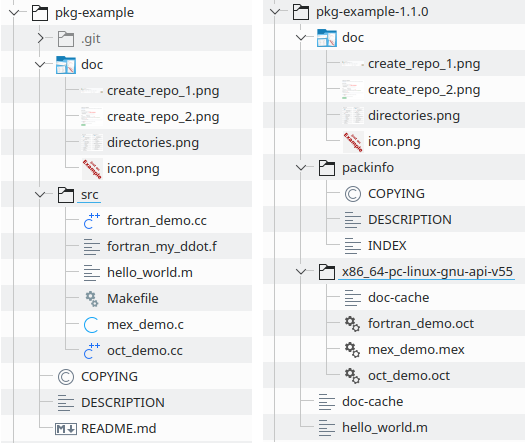
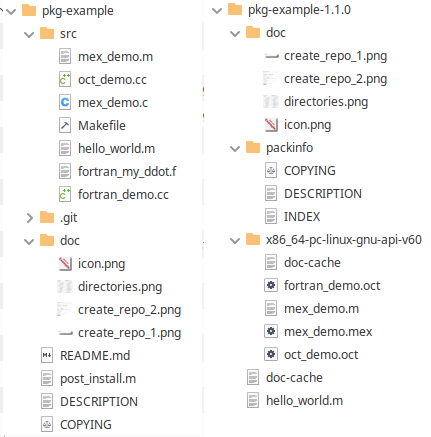
Add post_install.m  and info for mex docs
* README.md: update for post_install.m information

* doc/directories.png: update image for new files

* post_install.m: new file

* src/mex_demo.m: new file

diff --git a/post_install.m b/post_install.m
@@ -1,0 +1,45 @@
+## Copyright (C) 2026 John Donoghue
+##  
+## This program is free software; you can redistribute it and/or
+## modify it under the terms of the GNU General Public License as
+## published by the Free Software Foundation; either version 3 of the
+## License, or (at your option) any later version.
+##      
+## This program is distributed in the hope that it will be useful, but
+## WITHOUT ANY WARRANTY; without even the implied warranty of
+## MERCHANTABILITY or FITNESS FOR A PARTICULAR PURPOSE. See the GNU
+## General Public License for more details.
+##      
+## You should have received a copy of the GNU General Public License
+## along with this program; if not, see
+## <http:##www.gnu.org/licenses/>.
+          
+## post_install
+## .mex files expect a .m file of same name in same folder as the mex file
+## containing the help of the mex file, but pkg copies .m files from the src
+## folder to the base install folder rather than to the arch folder.
+##
+## This generic post_install s used to copy any .mex file matching .m files
+## from the base install to the arch files folder
+
+function post_install (desc)
+  try
+    if isfield(desc, "archprefix") && ! isempty(desc.archprefix)
+      arch = [__octave_config_info__("canonical_host_type"), "-", ...
+                      __octave_config_info__("api_version")];
+
+      # get any mex files
+      mex = dir (fullfile (desc.archprefix, arch, "*.mex"));
+
+      for idx = 1:length (mex)
+        # for any .m file that has name as a mex file, move it to the arch folder
+        [~, funcname, ~] = fileparts (mex(idx).name);
+        if exist (fullfile (desc.dir, [funcname ".m"]))
+          movefile (fullfile (desc.dir, [funcname ".m"]), fullfile (desc.archprefix, arch, [funcname ".m"]));
+        endif
+      endfor
+    endif
+  catch
+    warning ("error processing post_install %s", lasterr)
+  end_try_catch
+endfunction

diff --git a/src/mex_demo.m b/src/mex_demo.m
@@ -1,0 +1,13 @@
+% Example Help File for mex_demo
+%
+% Prints a greating followed by a count of the number of inputs and outputs.
+%
+% Return a 1x1 matrix output by default, and empty matrix outputs for any
+% additional outputs.
+%
+% Example:
+% > d = mex_demo ("easy as", 1, 2, 3)
+%
+%   Hello, world!
+%   I have 4 inputs and 1 output
+%   d =  1.2346

diff --git a/README.md b/README.md
@@ -9,6 +9,7 @@ for [GNU Octave](https://www.octave.org).  Contained examples are:
   called by the oct-interface
 - `oct_demo.cc`: C++ code called by the oct-interface
 - `mex_demo.cc`: C code called by the mex-interface
+- `mex_demo.m`: Octave/Matlab help text for the mex-interface
 
 This package serves as template.  Installing it is of little use.
 In the following, we describe the Octave package development,
@@ -93,6 +94,11 @@ installation location.
 - `NEWS`: If this file is provided,
   the command `news pkg-example` prints it on the screen.
 
+- `post_install.m`: If this file is provided, it is run
+   as part of the install proceder for any additional install
+   steps that may be needed. The example one provided here copies
+   the mex_demo.m help file to the correct directory.
+
 - [`doc`](doc): Optional folder.
   All content is copied to the package installation directory.
 
@@ -106,6 +112,9 @@ installation location.
 
     > **Note:** Only `.m`, `.mex`, and `.oct` files are finally copied to the
     > package installation directory.
+
+  - If a configure script exists in the package src directory, it will be
+    run before calling the make on the makefile.
 
 
 ## 3. Install your package
@@ -141,9 +150,8 @@ g++ -c  -fPIC -I/usr/include/octave-6.2.0/octave/.. -I/usr/include/octave-6.2.0/
 g++ -I/usr/include/octave-6.2.0/octave/.. -I/usr/include/octave-6.2.0/octave  -pthread -fopenmp -g -O2  -o fortran_demo.oct  /tmp/oct-gZtHRW.o /tmp/oct-9fcW8V.o  -shared -Wl,-Bsymbolic
 make: Leaving directory '/tmp/oct-zxAtnM/pkg-example-main/src'
 
-copyfile /tmp/oct-zxAtnM/pkg-example-main/src/hello_world.m/tmp/oct-zxAtnM/pkg-example-main/inst
+copyfile /tmp/oct-zxAtnM/pkg-example-main/src/hello_world.m /tmp/oct-zxAtnM/pkg-example-main/src/mex_demo.m /tmp/oct-zxAtnM/pkg-example-main/inst
 copyfile /tmp/oct-zxAtnM/pkg-example-main/src/fortran_demo.oct /tmp/oct-zxAtnM/pkg-example-main/src/oct_demo.oct /tmp/oct-zxAtnM/pkg-example-main/src/mex_demo.mex /tmp/oct-zxAtnM/pkg-example-main/inst/x86_64-pc-linux-gnu-api-v55
-warning: doc_cache_create: unusable help text found in file 'mex_demo'
 ```
 
 
